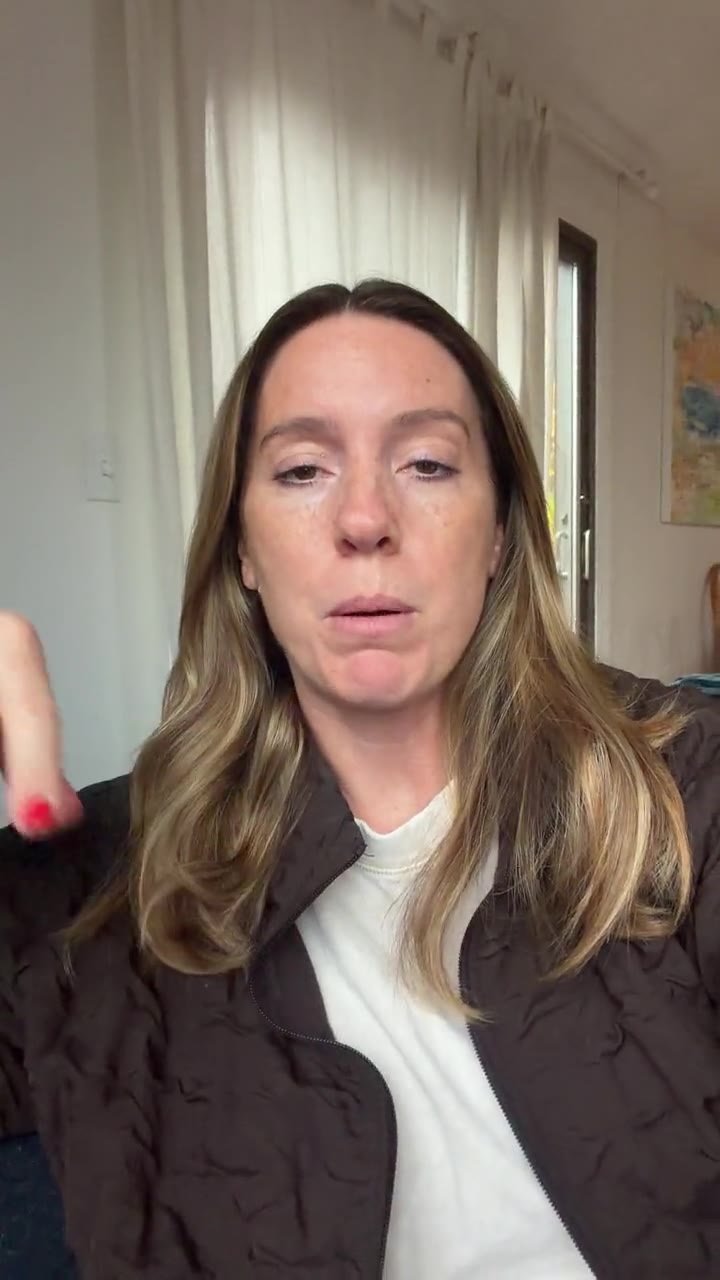
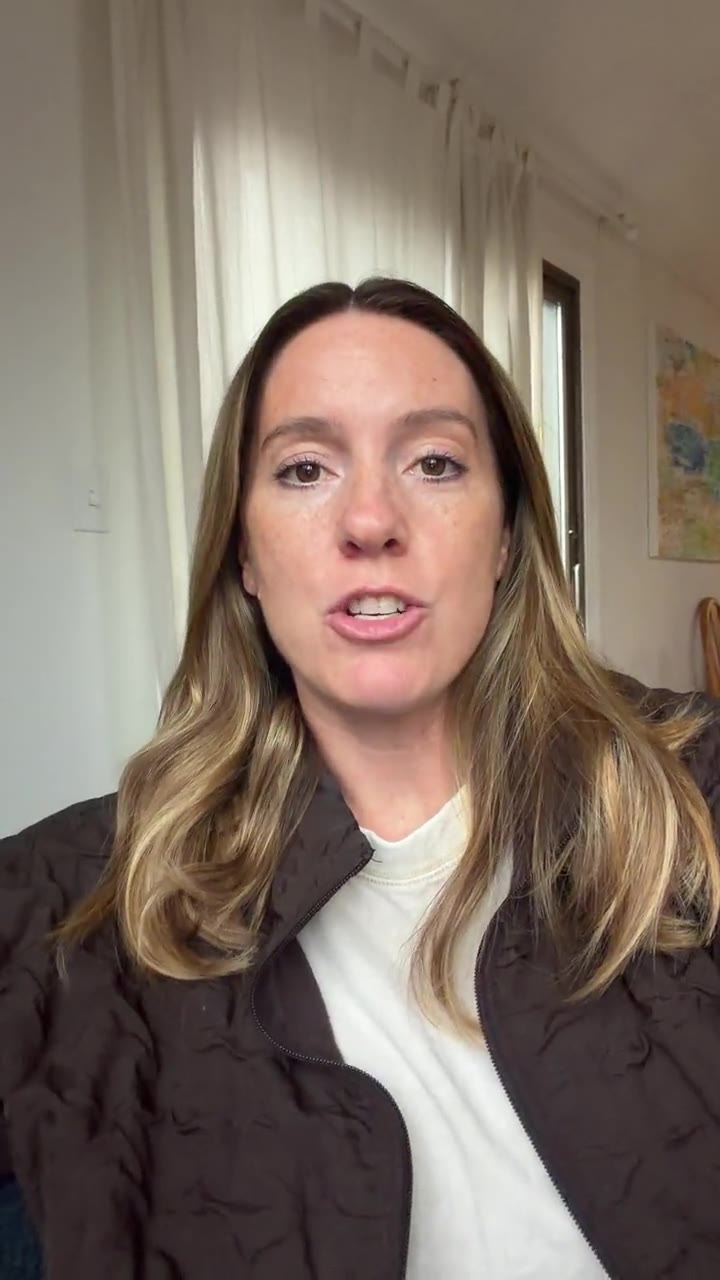
waitlist-2: better poster frame for step 2 video
Claude-Session: https://claude.ai/code/session_017axZFnvZpp7RAuMo6ZaNzz

diff --git a/waitlist-2.html b/waitlist-2.html
@@ -238,7 +238,7 @@ body.editing .s2-screen[hidden] { display: block !important; position: static; a
     <div class="step2" id="step2" hidden>
       <h2 class="step2-title">Hey!</h2>
       <div class="katie-video">
-        <video playsinline preload="metadata" poster="/app/katie-video.jpg?v=4"><source src="/app/katie-video.mp4?v=3" type="video/mp4">Your browser can't play this video.</video><button type="button" class="play-btn" aria-label="Play video"><svg viewBox="0 0 24 24" aria-hidden="true"><path d="M8 5.5v13a1 1 0 0 0 1.5.86l10.6-6.5a1 1 0 0 0 0-1.72L9.5 4.64A1 1 0 0 0 8 5.5z"/></svg></button>
+        <video playsinline preload="metadata" poster="/app/katie-video.jpg?v=5"><source src="/app/katie-video.mp4?v=3" type="video/mp4">Your browser can't play this video.</video><button type="button" class="play-btn" aria-label="Play video"><svg viewBox="0 0 24 24" aria-hidden="true"><path d="M8 5.5v13a1 1 0 0 0 1.5.86l10.6-6.5a1 1 0 0 0 0-1.72L9.5 4.64A1 1 0 0 0 8 5.5z"/></svg></button>
       </div>
       <form class="card-form" id="phone-form" novalidate>
         <label class="field"><span class="lbl">Your phone number</span><input type="tel" name="phone" autocomplete="tel" inputmode="tel" enterkeyhint="done" placeholder="(508) 555-0123"></label>
